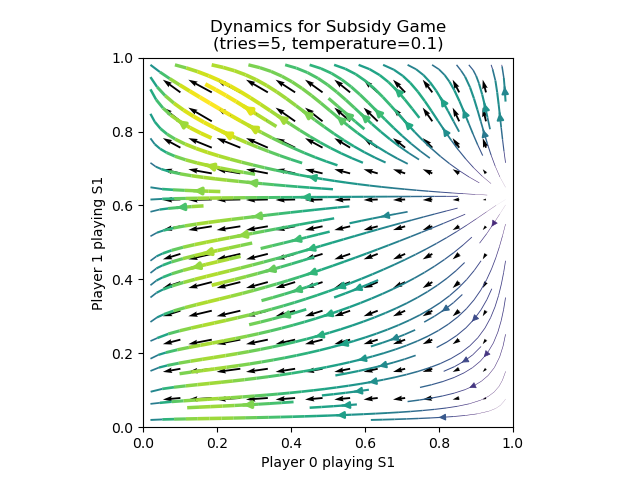
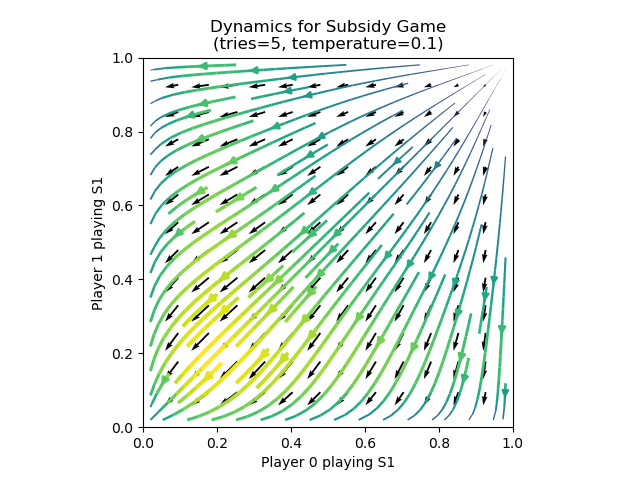
Correction in the lenient utility function

Changed region(s): [[0.2188, 0.125, 0.8125, 0.875]]

diff --git a/task2.py b/task2.py
@@ -277,7 +277,7 @@ def task2_dynamics(args):
     # Lenient Boltzmann Q Dynamics
     plot_egt_dynamics(game,
                       dynamics_func=dynamics.boltzmannq,
-                      temperature=1.,
+                      temperature=1.0,
                       tries=5,
                       lenient=True,
                       save_output=args.save_output)
@@ -295,7 +295,7 @@ if __name__ == '__main__':
     args_parser = argparse.ArgumentParser()
     # 'Biased Rock Paper Scissors', 'Dispersion Game', 'Battle of the Sexes', 'Subsidy Game'
     args_parser.add_argument('--game_name', help='Name of the game to play',
-                             default='Dispersion Game', type=str)
+                             default='Subsidy Game', type=str)
     args_parser.add_argument('--save_output', help='Whether we save the output figures',
                              default=True, type=bool)
     args = args_parser.parse_args()

diff --git a/lenientDynamics.py b/lenientDynamics.py
@@ -113,7 +113,11 @@ class MultiPopulationLenientDynamics(MultiPopulationDynamics):
         states = np.split(state, np.cumsum(ks)[:-1])
         dstates = [None] * n
         for i in range(n):
-            utility = lenient_utility(self.tries, states[i], self.payoff_tensor[i])
+            print("\n\n")
+            print(self.payoff_tensor[i])
+            payoff_matrix = np.moveaxis(self.payoff_tensor[i], i, 0)
+            print(payoff_matrix)
+            utility = lenient_utility(self.tries, states[i], payoff_matrix)
 
             dstates[i] = self.dynamics[i](states[i], utility)
 
